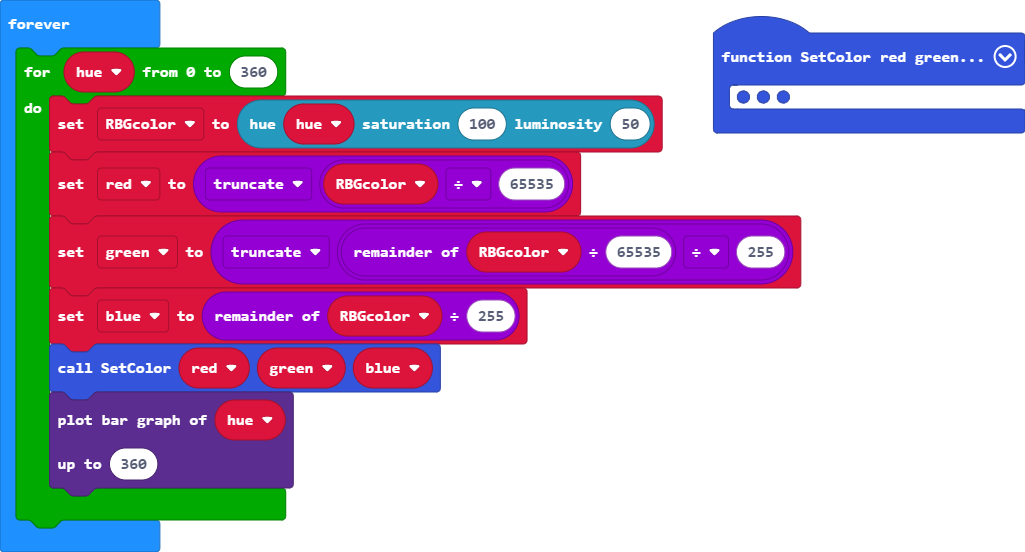
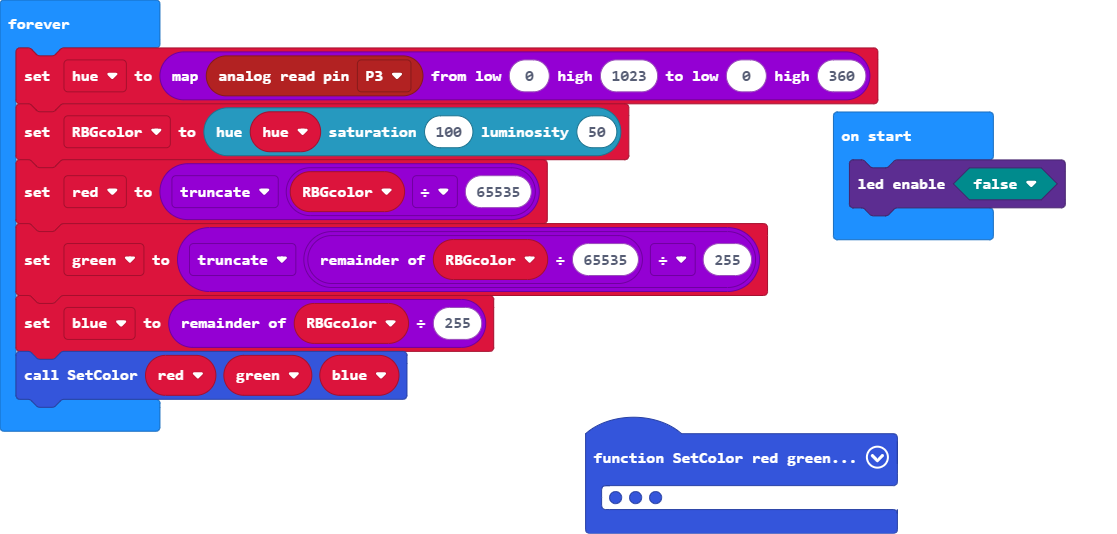
Update pxt.json, main.blocks, main.ts

diff --git a/main.ts b/main.ts
@@ -1,7 +1,3 @@
-let red = 0
-let green = 0
-let blue = 0
-let RBGcolor = 0
 function SetColor (red: number, green: number, blue: number) {
     red = Math.map(red, 0, 255, 1023, 0)
     green = Math.map(green, 0, 255, 1023, 0)
@@ -11,16 +7,17 @@ function SetColor (red: number, green: number, blue: number) {
     pins.analogWritePin(AnalogPin.P2, blue)
     basic.pause(5)
 }
+let RBGcolor = 0
+let hue = 0
+let blue = 0
+let green = 0
+let red = 0
+led.enable(false)
 basic.forever(function () {
-    for (let hue = 0; hue <= 360; hue++) {
-        RBGcolor = neopixel.hsl(hue, 100, 50)
-        red = Math.trunc(RBGcolor / 65535)
-        green = Math.trunc(RBGcolor % 65535 / 255)
-        blue = RBGcolor % 255
-        SetColor(red, green, blue)
-        led.plotBarGraph(
-        hue,
-        360
-        )
-    }
+    hue = Math.map(pins.analogReadPin(AnalogPin.P3), 0, 1023, 0, 360)
+    RBGcolor = neopixel.hsl(hue, 100, 50)
+    red = Math.trunc(RBGcolor / 65535)
+    green = Math.trunc(RBGcolor % 65535 / 255)
+    blue = RBGcolor % 255
+    SetColor(red, green, blue)
 })
